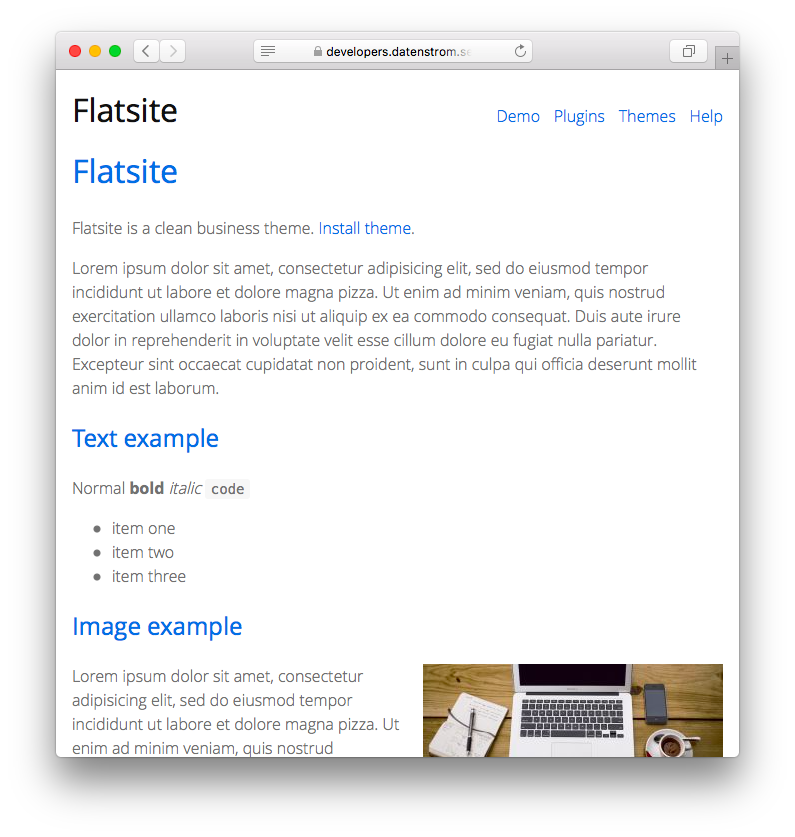
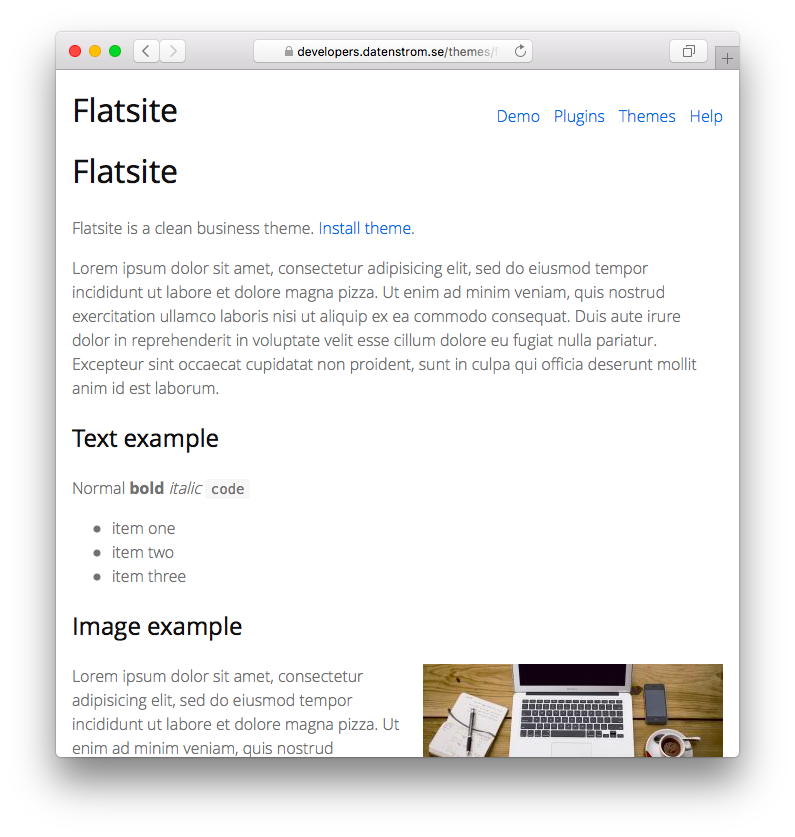
Updated themes, spring remix

diff --git a/knowhow/knowhow.css b/knowhow/knowhow.css
@@ -1,5 +1,5 @@
 /* Knowhow theme, https://github.com/datenstrom/yellow-themes/tree/master/knowhow */
-/* Copyright (c) 2013-2017 Datenstrom, https://datenstrom.se */
+/* Copyright (c) 2013-2018 Datenstrom, https://datenstrom.se */
 /* This file may be used and distributed under the terms of the public license. */
 
 html, body, div, form, pre, span, tr, th, td, img { margin:0; padding:0; border:0; vertical-align:baseline; }
@@ -12,6 +12,7 @@ body {
 	line-height:1.6;
 }
 h1, h2, h3, h4, h5, h6 { color:#333; font-weight:normal; }
+h1 { font-size: 2em; font-weight:600; }
 hr { height:1px; background:#ddd; border:0; }
 strong { font-weight:600; }
 code { font-size:1.1em; }
@@ -40,7 +41,7 @@ a:hover { color:#4183c4; text-decoration:underline; }
 /* Header */
 
 .header .sitename { display:block; float:left; }
-.header .sitename h1 { margin:0; font-size:2em; }
+.header .sitename h1 { margin:0; font-size:2em; font-weight:400; }
 .header .sitename h1 a { color:#333; text-decoration:none; }
 .header .sitename h2 { margin-top:0; color:#333; font-size:1.0em; font-weight:400; }
 .header .sitename-logo {
@@ -143,7 +144,14 @@ a:hover { color:#4183c4; text-decoration:underline; }
 /* Responsive and print */
 
 .page { margin:0 auto; max-width:980px; }
-.yellow-bar { margin:0 auto; max-width:980px; font-weight:500; }
+.yellow-bar { margin:0 auto; padding:0.9em 0; max-width:980px; }
+.yellow-dropdown a:hover, .yellow-toolbar a:hover { background-color:#48d; border-color:#48d; }
+.yellow-toolbar .yellow-toolbar-btn-edit {
+	background-color:#59e; border-color:#59e; color:#fff
+}
+.yellow-toolbar .yellow-toolbar-btn-create {
+	background-color:#59e; border-color:#59e; color:#fff
+}
 
 @media screen and (min-width:62em) {
 	body { width:62em; margin:1em auto; }

diff --git a/berlin/berlin.css b/berlin/berlin.css
@@ -1,5 +1,5 @@
 /* Berlin theme, https://github.com/datenstrom/yellow-themes/tree/master/berlin */
-/* Copyright (c) 2013-2017 Datenstrom, https://datenstrom.se */
+/* Copyright (c) 2013-2018 Datenstrom, https://datenstrom.se */
 /* This file may be used and distributed under the terms of the public license. */
 
 html, body, div, form, pre, span, tr, th, td, img { margin:0; padding:0; border:0; vertical-align:baseline; }
@@ -29,9 +29,9 @@ body {
 	line-height:1.5;
 }
 h1, h2, h3, h4, h5, h6 { font-weight:300; }
-h1 { font-size:3.2em; color:#111; }
-h2 { font-size:2.2em; color:#444; }
-h3 { font-size:1.5em; }
+h1 { font-size:2.9em; color:#111; }
+h2 { font-size:1.6em; color:#444; }
+h3 { font-size:1.5em; color:#444; }
 hr { height:1px; background:#ddd; border:0; }
 strong { font-weight:bold; }
 code { font-size:1.1em; }
@@ -159,7 +159,14 @@ a:hover { color:#07d; text-decoration:underline; }
 .yellow-bar a { color:#555; text-decoration:none; }
 .yellow-bar a:hover { color:#555; text-decoration:underline; }
 .yellow-dropdown a { color:#555; }
-.yellow-pane form h1 { font-size:2.2em; }
+.yellow-dropdown a:hover, .yellow-toolbar a:hover { background-color:#f90; border-color:#f90; }
+.yellow-toolbar .yellow-toolbar-btn-edit {
+	background-color:#fa1; border-color:#fa1; color:#fff
+}
+.yellow-toolbar .yellow-toolbar-btn-create {
+	background-color:#fa1; border-color:#fa1; color:#fff
+}
+.yellow-pane form h1 { font-size:2.5em; }
 
 html, body { height:100%; }
 .page { min-height:100%; position:relative; }

diff --git a/blogsite/blogsite.css b/blogsite/blogsite.css
@@ -1,5 +1,5 @@
 /* Blogsite theme, https://github.com/datenstrom/yellow-themes/tree/master/blogsite */
-/* Copyright (c) 2013-2017 Datenstrom, https://datenstrom.se */
+/* Copyright (c) 2013-2018 Datenstrom, https://datenstrom.se */
 /* This file may be used and distributed under the terms of the public license. */
 
 html, body, div, form, pre, span, tr, th, td, img { margin:0; padding:0; border:0; vertical-align:baseline; }
@@ -27,7 +27,10 @@ a:hover { color:#07d; text-decoration:underline; }
 .content blockquote { margin-left:0; padding-left:1em; border-left:.5em solid #0a0; }
 .content blockquote blockquote { margin-left:-1.5em; border-left:.5em solid #fb0; }
 .content blockquote blockquote blockquote { border-color:#d00; }
-.content pre { padding:0 2em; overflow:auto; line-height:1.45; }
+.content code, pre { font-family:Consolas,"Liberation Mono",Menlo,Courier,monospace; font-size:90%; }
+.content code { padding:0.15em 0.4em; margin:0; background-color:#f1f1f1; border-radius:3px; }
+.content pre>code { padding:0; margin:0; white-space:pre; background:transparent; border:0; font-size:inherit; }
+.content pre { padding:1em; overflow:auto; line-height:1.45; background-color:#f1f1f1; border-radius:3px; }
 .content .flexible { position:relative; padding-top:0; padding-bottom:56.25%; }
 .content .flexible iframe { position:absolute; top:0; left:0; width:100%; height:100%; }
 .content .stretchable ul { margin:0 -0.5em; padding:0; list-style:none; text-align:center; }

diff --git a/paris/paris.css b/paris/paris.css
@@ -1,5 +1,5 @@
 /* Paris theme, https://github.com/datenstrom/yellow-themes/tree/master/paris */
-/* Copyright (c) 2013-2017 Datenstrom, https://datenstrom.se */
+/* Copyright (c) 2013-2018 Datenstrom, https://datenstrom.se */
 /* This file may be used and distributed under the terms of the public license. */
 
 html, body, div, form, pre, span, tr, th, td, img { margin:0; padding:0; border:0; vertical-align:baseline; }
@@ -167,8 +167,16 @@ a:hover { color:#cf3621; text-decoration:underline; }
 .page { margin-top:0.5em; }
 .header, .content, .siteinfo { margin:0 auto; padding:0 1em; max-width:1000px; }
 .yellow-bar { margin:0 auto; padding:0.7em 1em; max-width:1000px; }
-.yellow-dropdown a:hover, .yellow-toolbar a:hover { background-color:#d44; }
-
+.yellow-dropdown a:hover, .yellow-toolbar a:hover { background-color:#d44; border-color:#d44; }
+.yellow-toolbar .yellow-toolbar-btn-edit {
+	background-color:#333; border-color:#333; color:#fff
+}
+.yellow-toolbar .yellow-toolbar-btn-create {
+	background-color:#333; border-color:#333; color:#fff
+}
+.yellow-toolbar .yellow-toolbar-btn-delete {
+	background-color:#c33; border-color:#c33; color:#fff
+}
 html, body { height:100%; }
 .page { min-height:100%; position:relative; }
 .content { padding-bottom:12em; }

diff --git a/flatsite/flatsite.css b/flatsite/flatsite.css
@@ -1,5 +1,5 @@
 /* Flatsite theme, https://github.com/datenstrom/yellow-themes/tree/master/flatsite */
-/* Copyright (c) 2013-2017 Datenstrom, https://datenstrom.se */
+/* Copyright (c) 2013-2018 Datenstrom, https://datenstrom.se */
 /* This file may be used and distributed under the terms of the public license. */
 
 html, body, div, form, pre, span, tr, th, td, img { margin:0; padding:0; border:0; vertical-align:baseline; }
@@ -29,7 +29,7 @@ body {
 	font-weight:300;
 	line-height:1.5;
 }
-h1, h2, h3, h4, h5, h6 { color:#07d; font-weight:normal; }
+h1, h2, h3, h4, h5, h6 { color:#111; font-weight:normal; }
 h1 { font-size:2.0em; }
 hr { height:1px; background:#ddd; border:0; }
 strong { font-weight:bold; }
@@ -37,7 +37,8 @@ code { font-size:1.1em; }
 a { color:#07d; text-decoration:none; }
 a:hover { color:#07d; text-decoration:underline; }
 .content h1:first-child, .content>*:first-child { margin-top:0; }
-.content h1 a:hover { text-decoration:none; }
+.content h1 a { color:#111; }
+.content h1 a:hover { color:#111; text-decoration:none; }
 .content img { max-width:100%; height:auto; }
 .content form { margin:1em 0; }
 .content table { border-spacing:0; border-collapse:collapse; }

diff --git a/stockholm/stockholm.css b/stockholm/stockholm.css
@@ -1,5 +1,5 @@
 /* Stockholm theme, https://github.com/datenstrom/yellow-themes/tree/master/stockholm */
-/* Copyright (c) 2013-2017 Datenstrom, https://datenstrom.se */
+/* Copyright (c) 2013-2018 Datenstrom, https://datenstrom.se */
 /* This file may be used and distributed under the terms of the public license. */
 
 html, body, div, form, pre, span, tr, th, td, img { margin:0; padding:0; border:0; vertical-align:baseline; }
@@ -36,7 +36,7 @@ strong { font-weight:bold; }
 code { font-size:1.1em; }
 a { color:#07d; text-decoration:none; }
 a:hover { color:#07d; text-decoration:underline; }
-.content h1 a { color:#111; }
+.content h1 a { color:#333; }
 .content h1 a:hover { text-decoration:none; }
 .content img { max-width:100%; height:auto; }
 .content form { margin:1em 0; }

diff --git a/stockholm/stockholm.php b/stockholm/stockholm.php
@@ -1,11 +1,11 @@
 <?php
 // Stockholm theme, https://github.com/datenstrom/yellow-themes/tree/master/stockholm
-// Copyright (c) 2013-2017 Datenstrom, https://datenstrom.se
+// Copyright (c) 2013-2018 Datenstrom, https://datenstrom.se
 // This file may be used and distributed under the terms of the public license.
 
 class YellowThemeStockholm
 {
-	const VERSION = "0.7.2";	
+	const VERSION = "0.7.3";	
 }
 
 $yellow->themes->register("stockholm", "YellowThemeStockholm", YellowThemeStockholm::VERSION);

diff --git a/blogsite/blogsite.php b/blogsite/blogsite.php
@@ -1,11 +1,11 @@
 <?php
 // Blogsite theme, https://github.com/datenstrom/yellow-themes/tree/master/blogsite
-// Copyright (c) 2013-2017 Datenstrom, https://datenstrom.se
+// Copyright (c) 2013-2018 Datenstrom, https://datenstrom.se
 // This file may be used and distributed under the terms of the public license.
 
 class YellowThemeBlogsite
 {
-	const VERSION = "0.7.2";	
+	const VERSION = "0.7.3";	
 }
 
 $yellow->themes->register("blogsite", "YellowThemeBlogsite", YellowThemeBlogsite::VERSION);

diff --git a/flatsite/flatsite.php b/flatsite/flatsite.php
@@ -1,11 +1,11 @@
 <?php
 // Flatsite theme, https://github.com/datenstrom/yellow-themes/tree/master/flatsite
-// Copyright (c) 2013-2017 Datenstrom, https://datenstrom.se
+// Copyright (c) 2013-2018 Datenstrom, https://datenstrom.se
 // This file may be used and distributed under the terms of the public license.
 
 class YellowThemeFlatsite
 {
-	const VERSION = "0.7.2";	
+	const VERSION = "0.7.3";	
 }
 
 $yellow->themes->register("flatsite", "YellowThemeFlatsite", YellowThemeFlatsite::VERSION);

diff --git a/knowhow/knowhow.php b/knowhow/knowhow.php
@@ -1,11 +1,11 @@
 <?php
 // Knowhow theme, https://github.com/datenstrom/yellow-themes/tree/master/knowhow
-// Copyright (c) 2013-2017 Datenstrom, https://datenstrom.se
+// Copyright (c) 2013-2018 Datenstrom, https://datenstrom.se
 // This file may be used and distributed under the terms of the public license.
 
 class YellowThemeKnowhow
 {
-	const VERSION = "0.7.2";	
+	const VERSION = "0.7.3";	
 }
 
 $yellow->themes->register("knowhow", "YellowThemeKnowhow", YellowThemeKnowhow::VERSION);

diff --git a/berlin/berlin.php b/berlin/berlin.php
@@ -1,11 +1,11 @@
 <?php
 // Berlin theme, https://github.com/datenstrom/yellow-themes/tree/master/berlin
-// Copyright (c) 2013-2017 Datenstrom, https://datenstrom.se
+// Copyright (c) 2013-2018 Datenstrom, https://datenstrom.se
 // This file may be used and distributed under the terms of the public license.
 
 class YellowThemeBerlin
 {
-	const VERSION = "0.7.2";	
+	const VERSION = "0.7.3";	
 }
 
 $yellow->themes->register("berlin", "YellowThemeBerlin", YellowThemeBerlin::VERSION);

diff --git a/paris/paris.php b/paris/paris.php
@@ -1,11 +1,11 @@
 <?php
 // Paris theme, https://github.com/datenstrom/yellow-themes/tree/master/paris
-// Copyright (c) 2013-2017 Datenstrom, https://datenstrom.se
+// Copyright (c) 2013-2018 Datenstrom, https://datenstrom.se
 // This file may be used and distributed under the terms of the public license.
 
 class YellowThemeParis
 {
-	const VERSION = "0.7.2";	
+	const VERSION = "0.7.3";	
 }
 
 $yellow->themes->register("paris", "YellowThemeParis", YellowThemeParis::VERSION);
